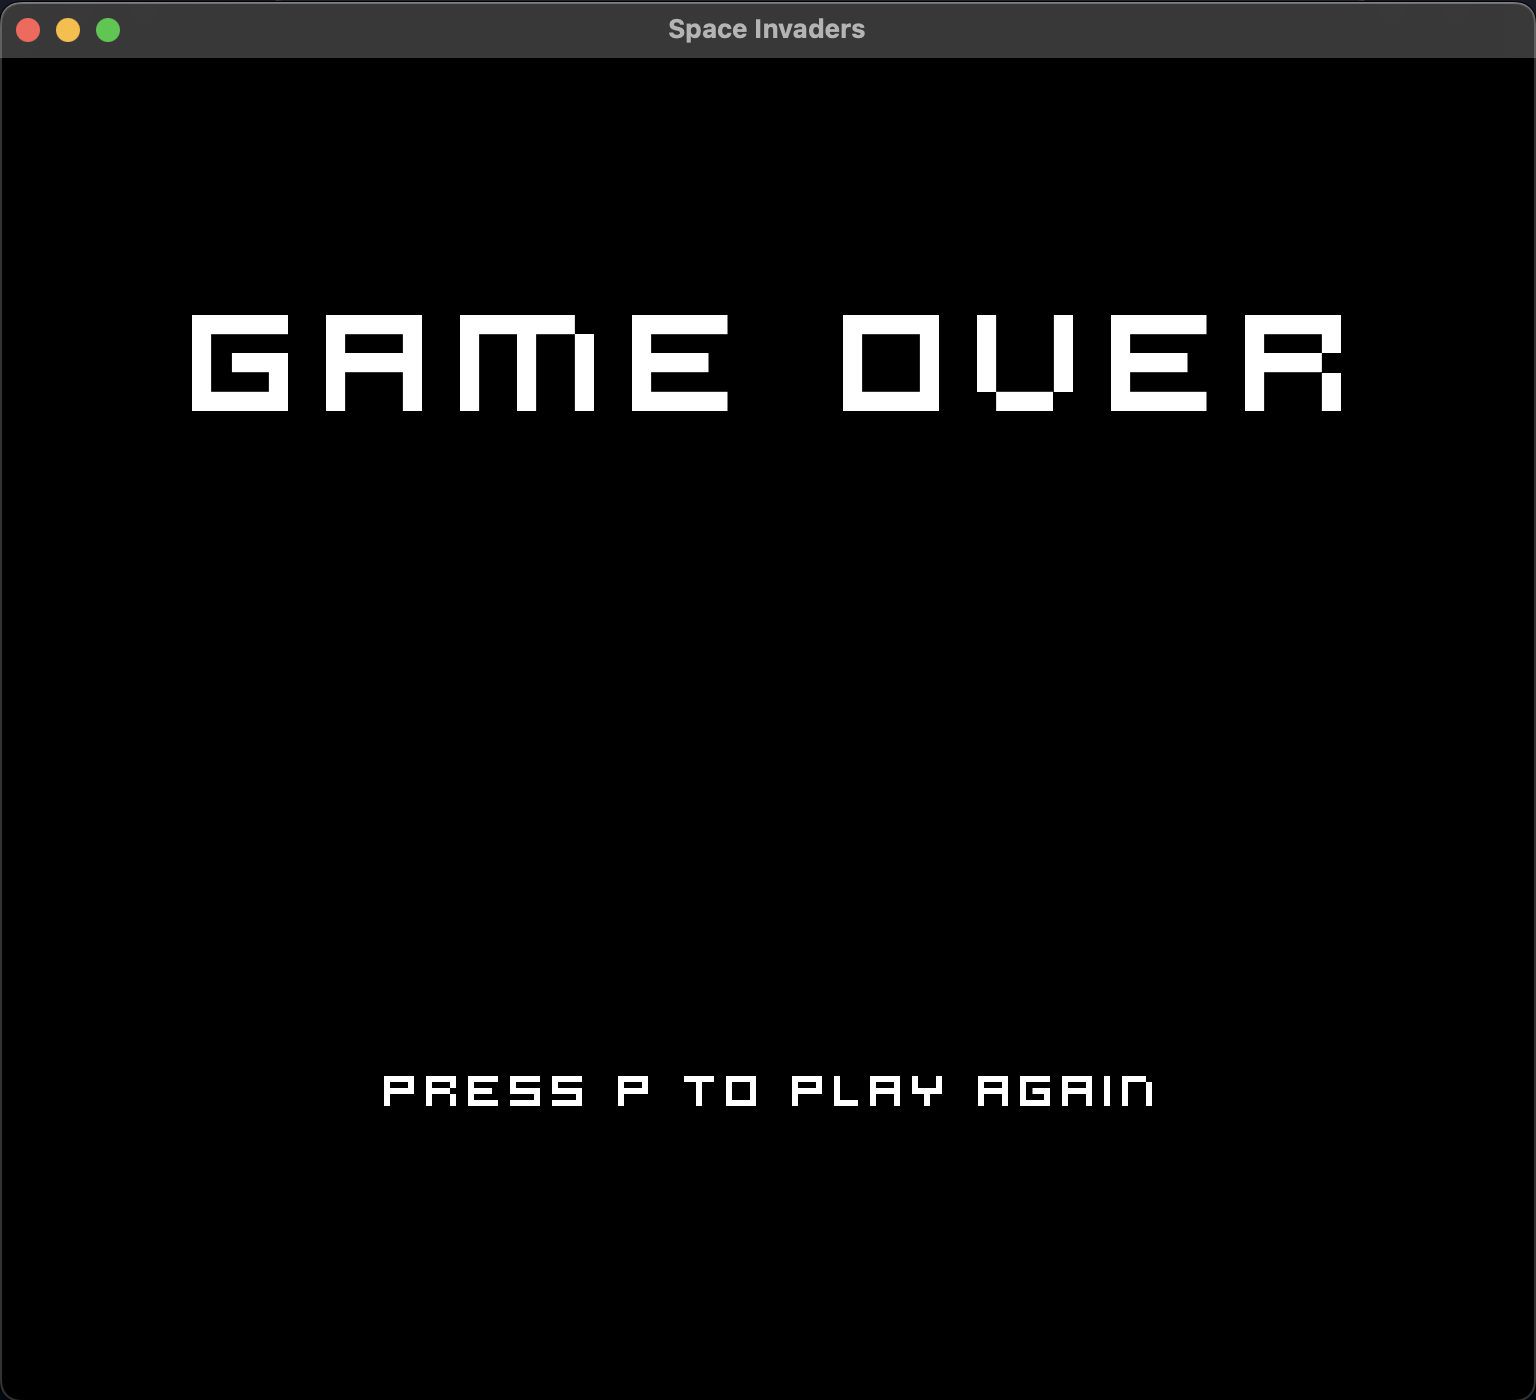
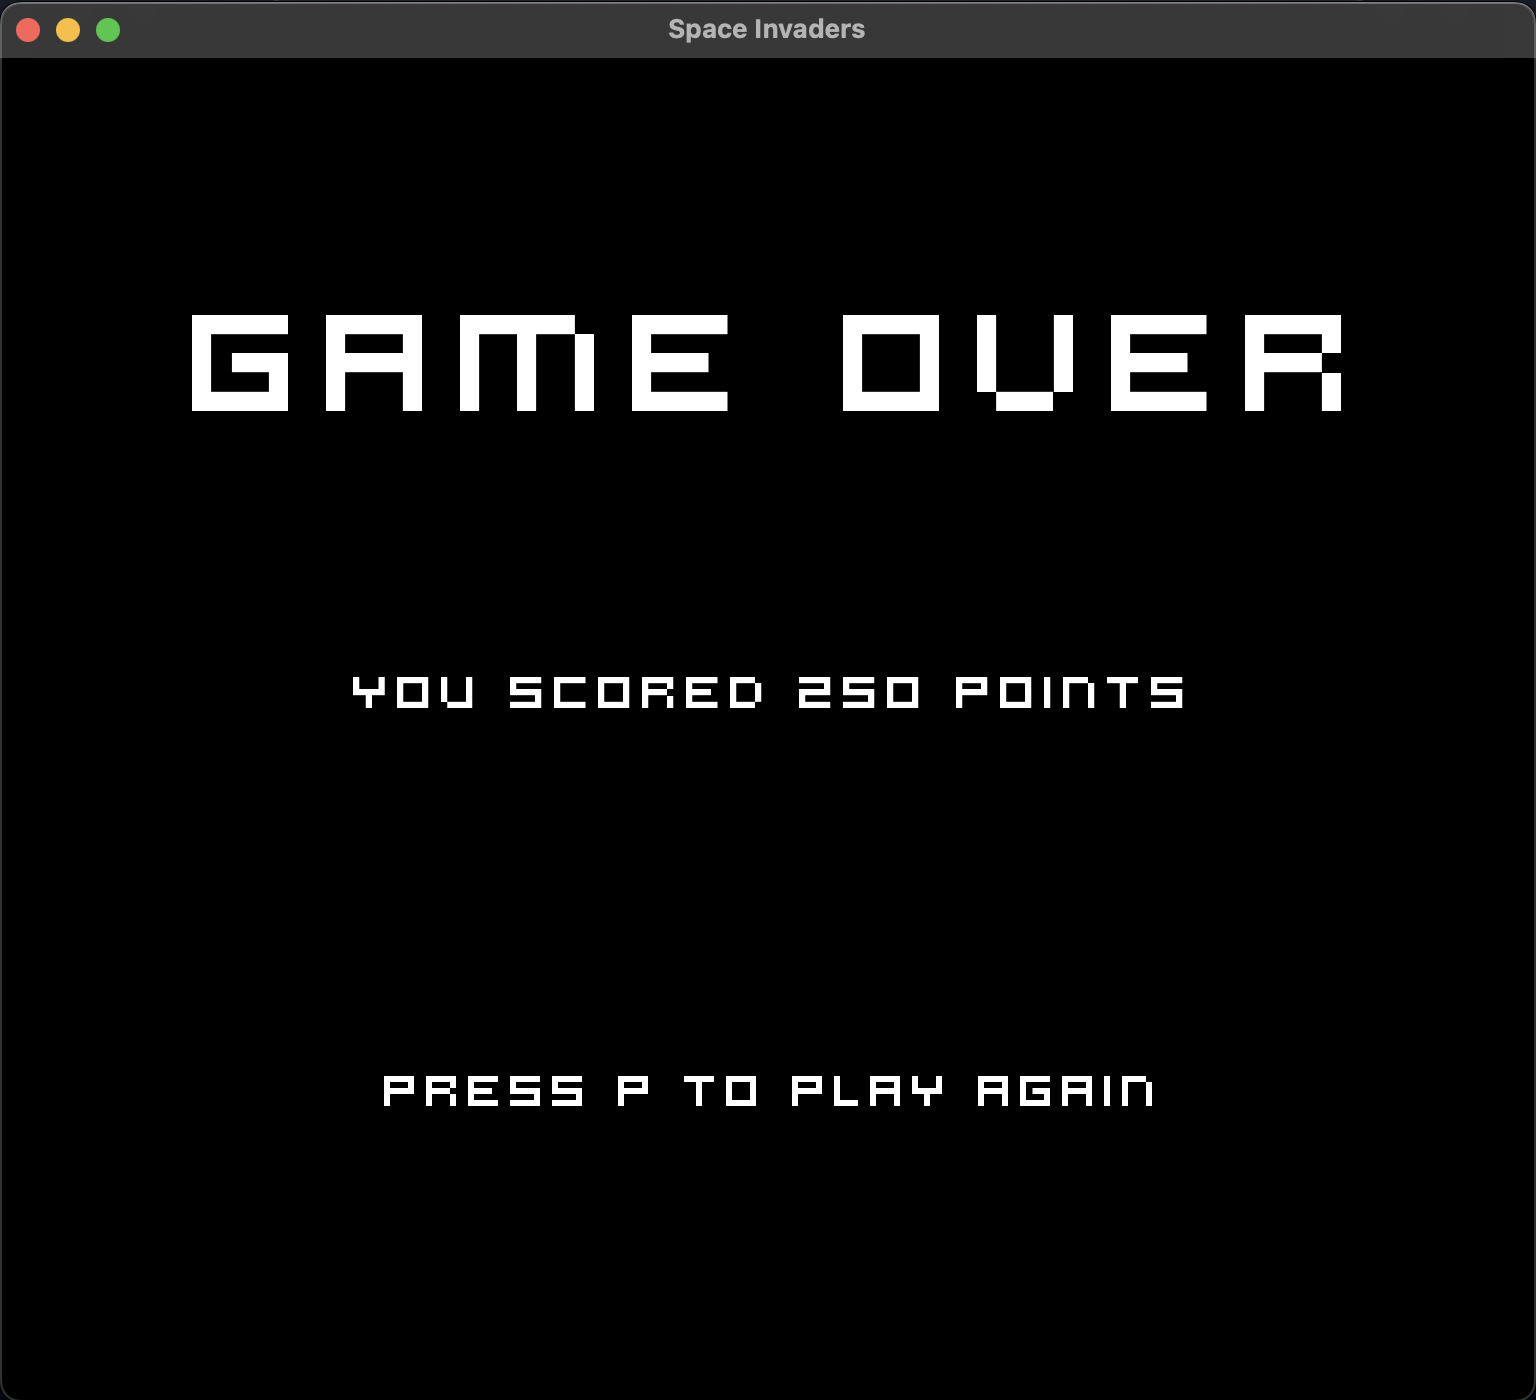
Update README
Remove score information from features pending and update the game
screenshots.

Changed region(s): [[0.2188, 0.4607, 0.7812, 0.5221]]

diff --git a/README.md b/README.md
@@ -9,7 +9,6 @@ This solo project is an imitation of the classic 1978 Taito game, Space Invaders
 - Collision detection between Invader lasers and Laser Cannon
 - Collisions between Invader lasers and Laser Cannon laser
 - Lives for the player
-- Player score information displayed
 - Bunkers protecting the Laser Cannon at the bottom
 - Title screen
 - **_(Under consideration)_** Submit the player score into a database with their name at game over and display the leaderboard either at game over or on a live website
@@ -29,7 +28,7 @@ The player controls a Laser Cannon at the bottom of the window which can be move
 </p>
 
 <p align="center">
-  <b>Fig.1 -</b> A screenshot of the game window with the Laser Cannon at the bottom of the board, firing the Laser with the grid of Invaders above
+  <b>Fig.1 -</b> A screenshot of the game window with the Laser Cannon at the bottom of the board, firing the Laser with the grid of Invaders above. The player's score can be seen in the top left hand corner
 </p>
 
 <p align="center">
